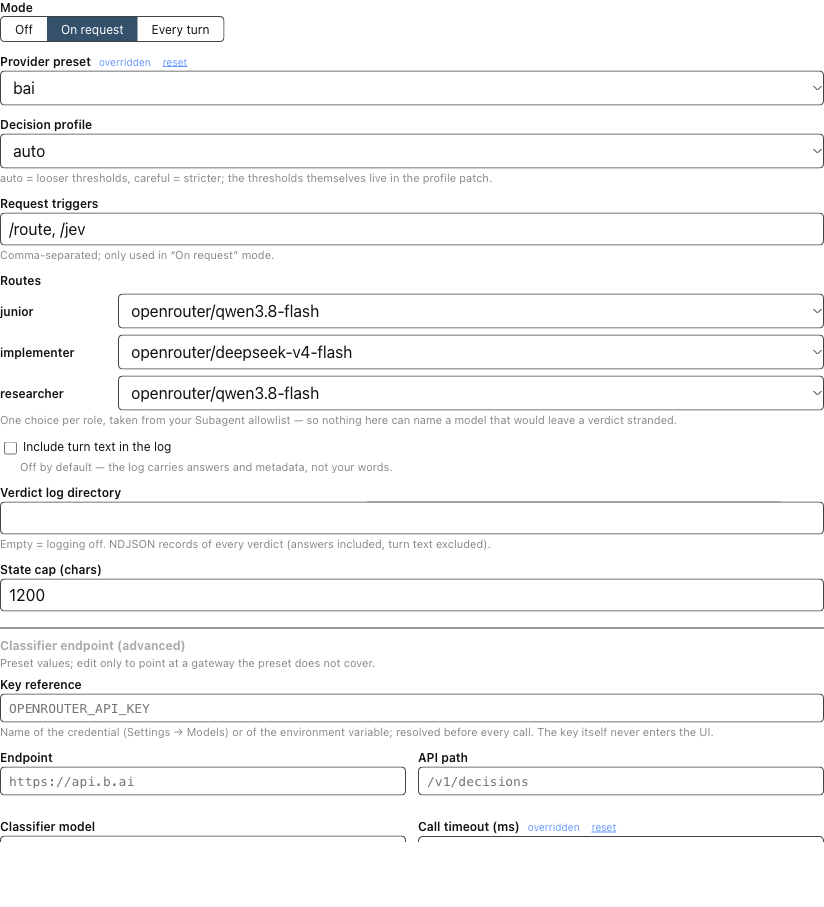
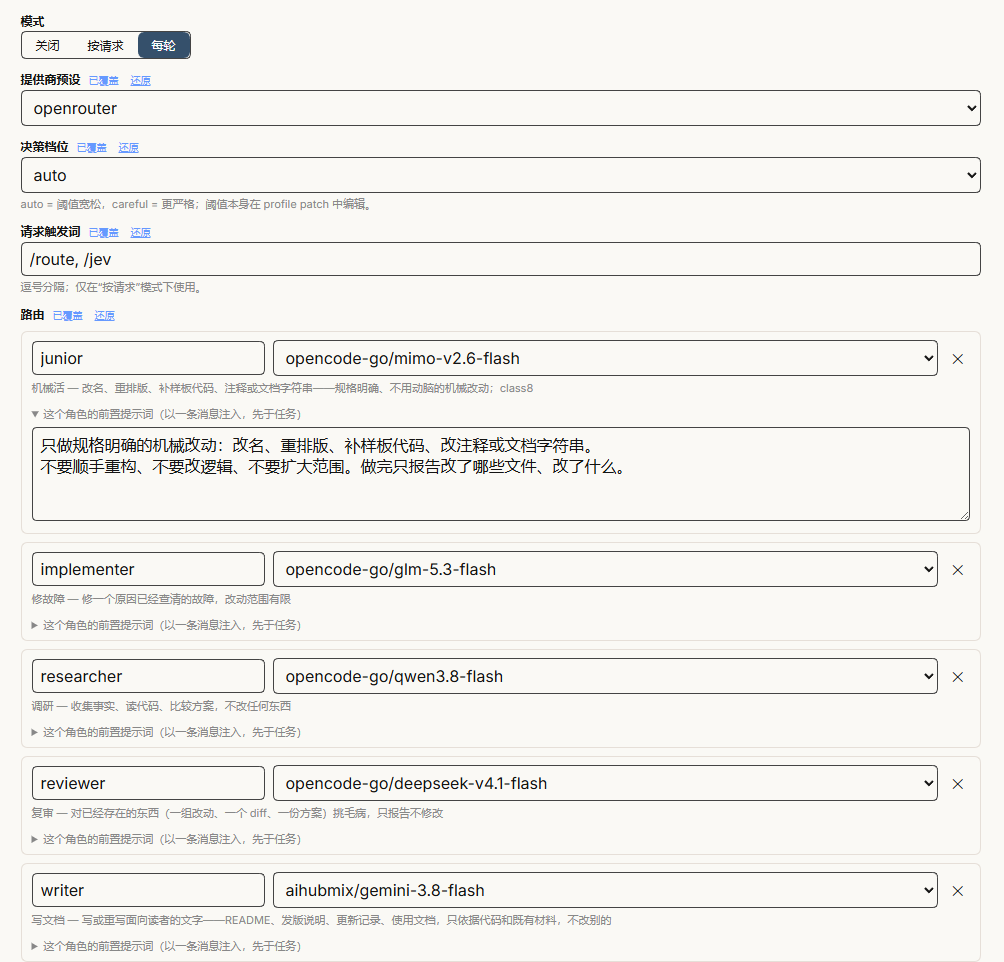
docs: replace the settings-card screenshot with a fuller capture

Changed region(s): [[0.0, 0.0, 1.0, 1.0]]

diff --git a/README.md b/README.md
@@ -67,7 +67,7 @@
 | 输入框模式切换器 | 「子代理模型」边栏标签页 | 插件可视化设置卡片 |
 | :---: | :---: | :---: |
 | ![输入框模式切换器](docs/preview-picker.png) | ![子代理模型边栏标签页](docs/preview-sidebar.png) | ![插件设置卡片](docs/settings-card.png) |
-| *位于主模型选择器右侧：继承主模型、交给 Jev 自动分配，或从列表中手动指定模型* | *当前会话状态、每个角色跑在哪个模型上，以及最近派发流水* | *支持配置决策档位、提供商预设、角色映射与问卷* |
+| *位于主模型选择器右侧：继承主模型、交给 Jev 自动分配，或从列表中手动指定模型* | *当前会话状态、每个角色跑在哪个模型上，以及最近派发流水* | *提供商预设、决策档位，以及每个角色所用的模型与前置提示词* |
 
 > 💡 *注：三张均为实际界面截图（桌面端）。顶部 Logo 仍是占位。*
 

diff --git a/CHANGELOG.md b/CHANGELOG.md
@@ -113,6 +113,11 @@
   actually show — the old ones promised a title-bar badge that neither picture
   contains — and a clipped edge of the picker shot was trimmed off. The logo
   remains the only placeholder.
+- **The settings-card screenshot was replaced with a fuller capture**, showing
+  the provider preset, the decision profile and all five roles with their models
+  and prompts. Its caption now names what the picture contains rather than the
+  questionnaire, which this crop does not reach. Checked before publishing: the
+  card's key field is not in the frame.
 
 ### 2026-10-12
 
